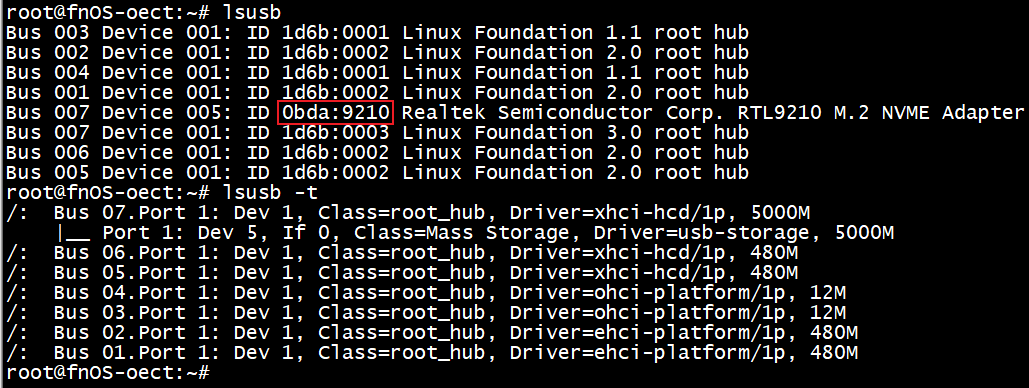
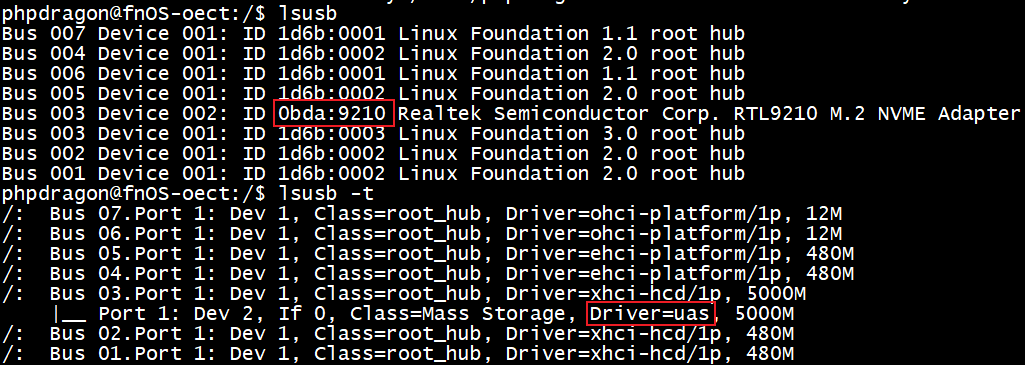
调整内容

diff --git a/source/_posts/oec-turbo.md b/source/_posts/oec-turbo.md
@@ -356,7 +356,7 @@ sudo nmcli connection up "Wired connection 1"
 ## 七、迁移系统至U盘
 
 > 当前U盘的主控是`慧荣SM3267AE`，可以做系统盘，但写入延时会很高，不推荐。
-> JEYI佳翼硬盘盒转M2，主控是`RTL9201C`，`UASP`传输协议不兼容，改成`BOT`传输协议没有问题。
+> JEYI佳翼硬盘盒转M2，主控是`RTL9210C`，`UASP`传输协议不兼容，改成`BOT`传输协议没有问题。
 
 顾名思义，就是把根系统从`eMMC`中迁移出来到U盘中。
 一是缓解`eMMC`的写入寿命，二是给系统盘扩容。
@@ -367,7 +367,36 @@ sudo nmcli connection up "Wired connection 1"
 当前设备是插入了`SATA硬盘`和`USB盘`的, 所以`USB盘`的设备路径应该是`/dev/sdb`。
 如果没有插入`SATA硬盘`，`USB盘`的设备路径应该是`/dev/sda`，这里不要用错了。
 
-### 7.1 U盘分区
+### 7.1 禁用U盘UASP传输协议
+
+> 每一个厂家硬件ID不一样。
+> **有些`USB`设备可能`UASP`传输协议很稳，可以跳过这步操作！！！**
+
+查看`USB`设备的硬件ID（厂商 ID + 产品 ID），执行`lsusb`命令：
+
+{% asset_img lsusb.png 查看USB端口信息 %}
+传输模式是 `uas` => `UASP`。
+
+厂商ID + 产品ID具体对应如下：
+- 0bda：厂商 ID（Vendor ID），属于 Realtek Semiconductor Corp.（瑞昱半导体）。
+- 9210：产品 ID（Product ID），对应的是 RTL9210 芯片。
+
+得到需要添加的参数: `usb-storage.quirks=0bda:9210:u`， 格式：`usb-storage.quirks=厂商ID:产品ID:u`。
+
+1. 输入命令打开文件：`sudo nano /boot/extlinux/extlinux.conf`。
+2. 使用键盘方向键，长按`↓`向下键直到光标移动到最下行，再短按`←`向左键移到最后一行末尾。
+3. 按一下空格，然后输入你要追加的参数: `usb-storage.quirks=0bda:9210:u`。
+4. 按`Ctrl + o`（字母 o）保存，按`Enter`确认文件名。
+5. 按`Ctrl + x`，退出。
+6. 输入`cat /boot/extlinux/extlinux.conf`检查是否修改成功。
+    {% asset_img cat-extlinux.png 确认extlinux.conf信息 %}
+
+7. 输入`sudo reboot`重启设备，重新执行`lsusb`，查看`USB`设备识别是否正常。
+    {% asset_img lsusb2.png 查看USB端口信息 %}
+
+8. 结果显示是`Driver=usb-storage`，表示已经由`UASP`转为`BOT`模式了。
+
+### 7.2 U盘分区
 
 ```
  进入 fdisk 交互界面
@@ -453,30 +482,6 @@ grep -e sdb1 /boot/extlinux/extlinux.conf
 {% asset_img switch-usb-boot.png 改为从U盘启动 %}
 
 
-### 7.5 禁用U盘UASP传输协议
-
-> 每一个厂家硬件ID不一样
-
-查看`USB`设备的硬件ID（厂商 ID + 产品 ID），执行`lsusb`命令：
-
-{% asset_img lsusb.png 查看USB端口信息 %}
-
-具体对应如下：
-- 0bda：厂商 ID（Vendor ID），属于 Realtek Semiconductor Corp.（瑞昱半导体）。
-- 9210：产品 ID（Product ID），对应的是 RTL9210 芯片。
-
-得到需要添加的参数: `usb-storage.quirks=0bda:9210:u`， 格式：`usb-storage.quirks=厂商ID:产品ID:u`。
-
-1. 输入命令打开文件：`nano /boot/extlinux/extlinux.conf`。
-2. 使用键盘方向键，长按`↓`向下键直到光标移动到最下行，再短按`←`向左键移到最后一行末尾。
-3. 按一下空格，然后输入你要追加的参数: `usb-storage.quirks=0bda:9210:u`。
-4. 按`Ctrl + O`（字母 O）保存，按`Enter`确认文件名。
-5. 按`Ctrl + X`，退出。
-6. 输入`cat /boot/extlinux/extlinux.conf`检查是否修改成功。
-
-{% asset_img cat-extlinux.png 确认extlinux.conf信息 %}
-
-
 ### 7.6 重启系统并验证
 
 ```bash
@@ -503,7 +508,13 @@ df -h
 
 迁移采用的是`dd`命令，块级别克隆方案，然后再扩容的办法，优点就是比文件拷贝更靠谱。
 
+| 主控 | BOT | UASP |
+| :--: | :--: | :--: |
+| 慧荣SM3267AE | 支持启动 | U盘不支持 |
+| 瑞昱RTL9210C | 支持启动 | 不兼容 |
+
 然后就是设备认`USB`硬件！！！
+
 
 1. 这里的U盘主控芯片是`慧荣SM3267AE - ISP (180806-001)`。
 
@@ -513,7 +524,7 @@ df -h
     - 闪存类型：MLC
     - 容量：128GB
 
-        {% asset_img usbinfo.png 确认是从U盘启动 %}
+        {% asset_img usbinfo.png U盘主控信息 %}
 
 
 2. 另一个`JEYI佳翼`M.2移动硬盘盒 NVME/SATA双协议，主控是`RTL9210C`，固态是`海力士BC711-2242`。
